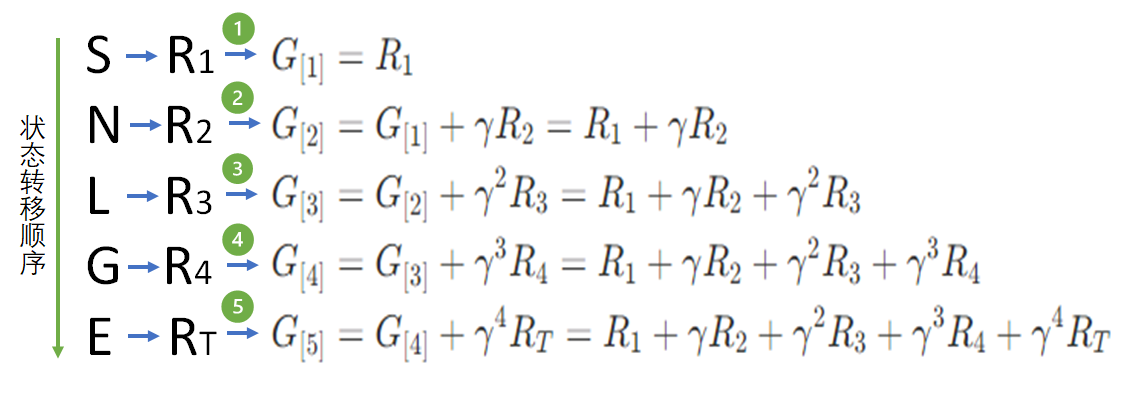
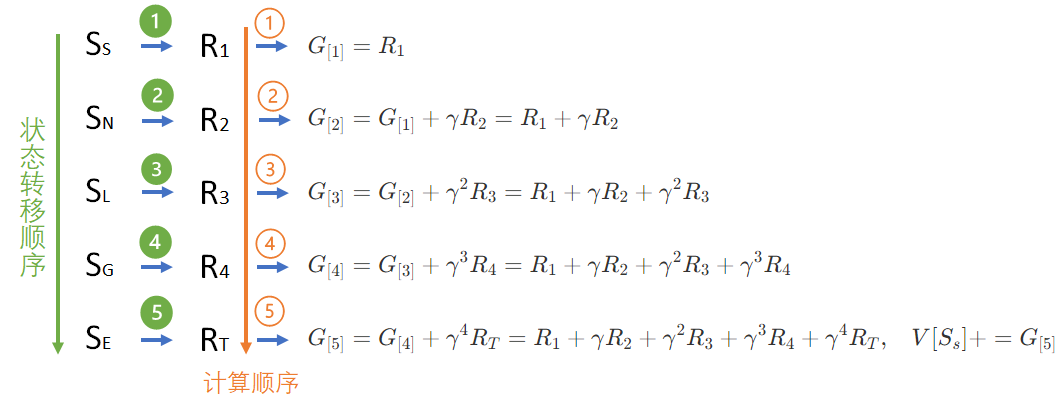
update

Changed region(s): [[0.0, 0.0, 0.9981, 0.973]]

diff --git a/基础教程/A7-强化学习/04-无模型的预测/formula.md b/基础教程/A7-强化学习/04-无模型的预测/formula.md
@@ -85,32 +85,35 @@ RMSE(a,y)=\sqrt{[(0.1-0)^2 + (1-1)^2 + (1.8-2)^2)]/3}=0.129
 RMSE(b,y)=\sqrt{[(0.1-0)^2 + (1.1-1)^2 + (1.8-2)^2)]/3}=0.141
 $$
 
+MC-1
+
 $$
 \begin{aligned}
 G_{[1]} &= R_1
-\\
+\\\\
 G_{[2]} &= G_{[1]} + \gamma R_2=R_1+\gamma R_2
-\\
+\\\\
 G_{[3]} &= G_{[2]} + \gamma^2 R_3 = R_1 + \gamma R_2 + \gamma^2 R_3
-\\
+\\\\
 G_{[4]} &= G_{[3]} + \gamma^3 R_4 = R_1 + \gamma R_2 + \gamma^2 R_3 + \gamma^3 R_4
-\\
-G_{[5]} &= G_{[4]} + \gamma^4 R_T = R_1 + \gamma R_2 + \gamma^2 R_3 + \gamma^3 R_4+ \gamma^4 R_T
+\\\\
+G_{[5]} &= G_{[4]} + \gamma^4 R_T = R_1 + \gamma R_2 + \gamma^2 R_3 + \gamma^3 R_4+ \gamma^4 R_T, & V[S_s] += G_{[5]}
 \end{aligned}
 $$
 
 
+MC-2
 
 $$
 \begin{aligned}
 G_{[5]} &= \gamma G_{[4]} + R_1 = R_1 + \gamma R_2 + \gamma^2 R_3 + \gamma^3 R_4+\gamma^4 R_T, & V[S_S] += G_{[5]}
-\\
+\\\\
 G_{[4]} &= \gamma G_{[3]} + R_2 = R_2 + \gamma R_3 + \gamma^2 R_4 + \gamma^3 R_T,  & V[S_N] += G_{[4]}
-\\
+\\\\
 G_{[3]} &= \gamma G_{[2]} + R_3 = R_3 + \gamma R_4 + \gamma^2 R_T, & V[S_L] += G_{[3]}
-\\
+\\\\
 G_{[2]} &= \gamma G_{[1]} + R_4 = R_4 + \gamma R_T, & V[S_G] += G_{[2]}
-\\
+\\\\
 G_{[1]} &= R_T, & V[S_E] += G_{[1]}
 \end{aligned}
 $$

diff --git a/基础教程/A7-强化学习/draft/42-学生学习问题的改进-蒙特卡洛方法/算法改进.md b/基础教程/A7-强化学习/draft/42-学生学习问题的改进-蒙特卡洛方法/算法改进.md
@@ -41,6 +41,8 @@ $$
 
 ### 算法描述
 
+下面的伪代码中，$\leftarrow$ 表示赋值，$\Leftarrow$ 表示追加列表。
+
 ---
 
 输入：起始状态$S,Episodes,\gamma$
